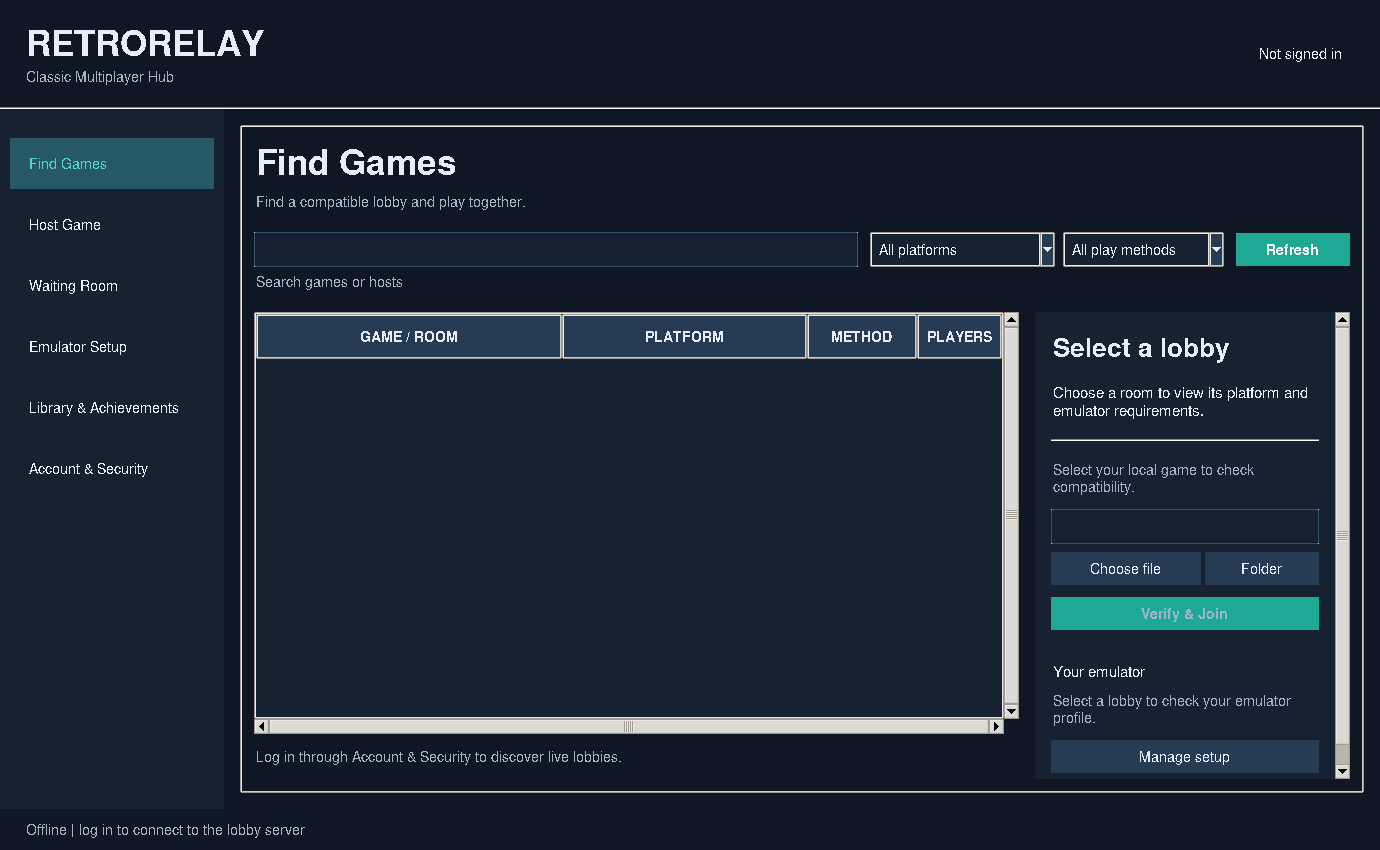
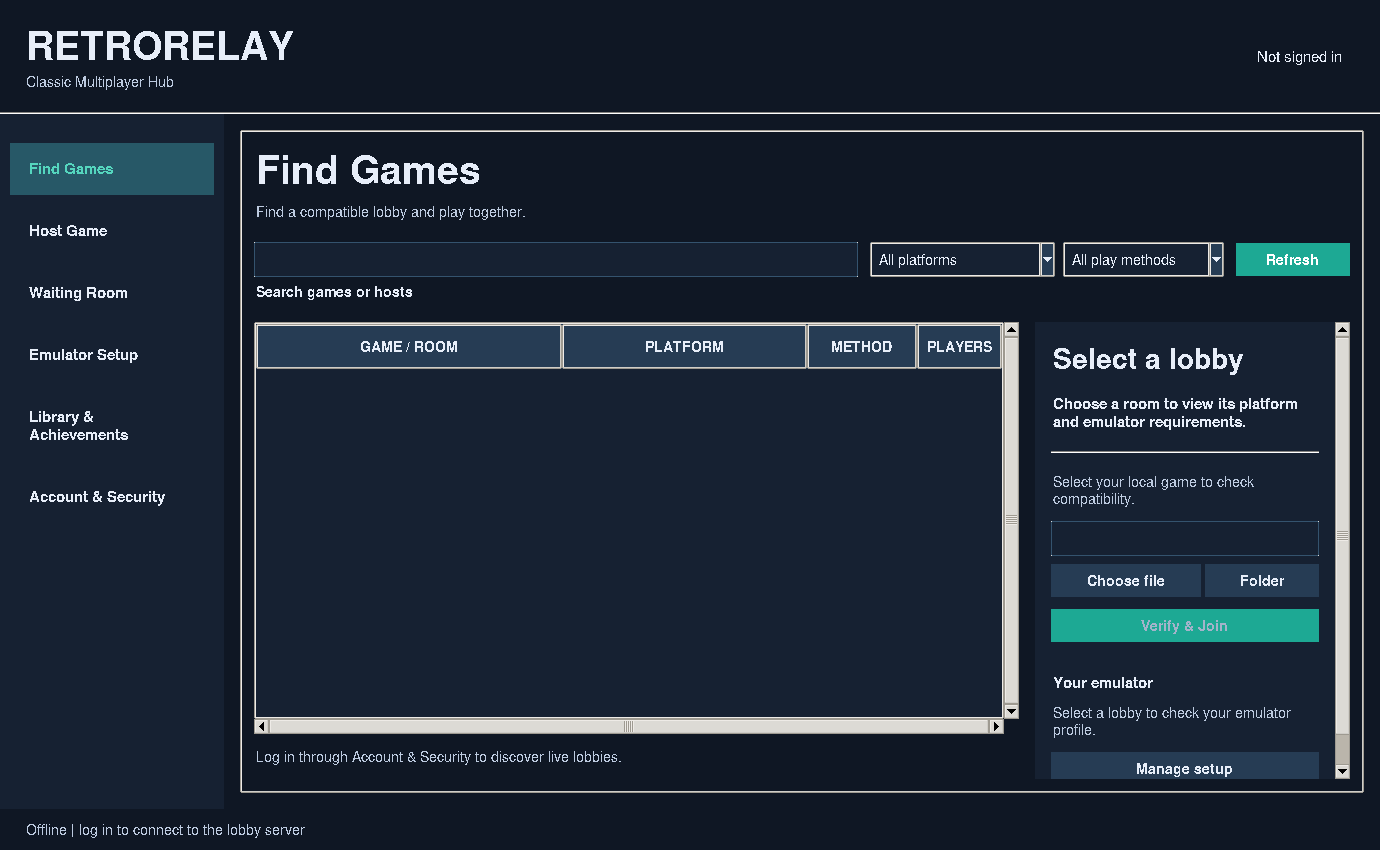
Improve desktop typography with bold labels and clearer font hierarchy

diff --git a/client.py b/client.py
@@ -20,7 +20,7 @@ import urllib.request
 import webbrowser
 from urllib.parse import urlsplit
 from pathlib import Path
-from tkinter import filedialog, messagebox, ttk
+from tkinter import filedialog, messagebox, ttk, font as tkfont
 
 from catalog import MODES, PLATFORMS, compatible_mode
 
@@ -185,18 +185,21 @@ class RetroRelayApp(tk.Tk):
         self.after(5000, self.poll)
 
     def setup_style(self):
+        families = set(tkfont.families(self))
+        self.ui_font = next((name for name in ("Segoe UI", "Noto Sans", "Noto Sans Display", "DejaVu Sans", "Arial")
+                             if name in families), "Arial")
         style = ttk.Style(self)
         style.theme_use("clam")
         style.configure("TFrame", background=BG)
         style.configure("Panel.TFrame", background=PANEL)
-        style.configure("TLabel", background=BG, foreground=FG, font=("Arial", 10))
-        style.configure("Header.TLabel", background=BG, foreground=FG, font=("Arial", 18, "bold"))
-        style.configure("Small.TLabel", background=BG, foreground=SUBTLE, font=("Arial", 10))
-        style.configure("TButton", font=("Arial", 10), padding=(12, 7), background="#263c54",
+        style.configure("TLabel", background=BG, foreground=FG, font=(self.ui_font, 11))
+        style.configure("Header.TLabel", background=BG, foreground=FG, font=(self.ui_font, 21, "bold"))
+        style.configure("Small.TLabel", background=BG, foreground="#bdcbe0", font=(self.ui_font, 10))
+        style.configure("TButton", font=(self.ui_font, 10, "bold"), padding=(12, 7), background="#263c54",
                         foreground=FG, borderwidth=0, relief="flat", bordercolor="#263c54",
                         lightcolor="#263c54", darkcolor="#263c54")
         style.map("TButton", background=[("active", "#34536e")], foreground=[("disabled", SUBTLE)])
-        style.configure("Accent.TButton", background="#1da994", foreground="#ffffff", font=("Arial", 10, "bold"))
+        style.configure("Accent.TButton", background="#1da994", foreground="#ffffff", font=(self.ui_font, 10, "bold"))
         style.map("Accent.TButton", background=[("active", "#188777")])
         style.configure("TEntry", padding=7, fieldbackground=PANEL, foreground=FG,
                         insertcolor=FG, bordercolor="#34536e", lightcolor=PANEL, darkcolor=PANEL)
@@ -208,24 +211,28 @@ class RetroRelayApp(tk.Tk):
         style.configure("TNotebook.Tab", padding=(20, 11), background=PANEL, foreground=FG)
         style.map("TNotebook.Tab", background=[("selected", "#28415a")], foreground=[("selected", "white")])
         style.configure("Treeview", background=PANEL, fieldbackground=PANEL, foreground=FG, rowheight=31, borderwidth=0)
-        style.configure("Treeview.Heading", background="#263c54", foreground=FG, font=("Arial", 10, "bold"))
+        style.configure("Treeview.Heading", background="#263c54", foreground=FG, font=(self.ui_font, 10, "bold"))
         style.map("Treeview", background=[("selected", "#275867")], foreground=[("selected", "white")])
         style.configure("TSpinbox", padding=5)
         style.layout("Sidebar.TNotebook.Tab", [])
         style.configure("Sidebar.TNotebook", background=BG, borderwidth=0)
         style.layout("Sidebar.TNotebook", [("Notebook.client", {"sticky": "nswe"})])
-        style.configure("Nav.TButton", anchor="w", padding=(18, 16), background=PANEL, foreground=FG)
+        style.configure("Nav.TButton", font=(self.ui_font, 11, "bold"), anchor="w", padding=(18, 16), background=PANEL, foreground=FG)
         style.map("Nav.TButton", background=[("pressed", "#275867"), ("active", "#263c54")])
-        style.configure("Selected.Nav.TButton", anchor="w", padding=(18, 16), background="#275867", foreground=ACCENT)
-        style.configure("Title.TLabel", background=BG, foreground=FG, font=("Arial", 25, "bold"))
-        style.configure("Card.TLabel", background=PANEL, foreground=FG, font=("Arial", 11))
-        style.configure("CardTitle.TLabel", background=PANEL, foreground=FG, font=("Arial", 19, "bold"))
-        style.configure("CardMuted.TLabel", background=PANEL, foreground=SUBTLE, font=("Arial", 10))
-        style.configure("Treeview", rowheight=68, font=("Arial", 11))
-        style.configure("Treeview.Heading", padding=(8, 12))
+        style.configure("Selected.Nav.TButton", font=(self.ui_font, 11, "bold"), anchor="w", padding=(18, 16), background="#275867", foreground=ACCENT)
+        style.configure("Title.TLabel", background=BG, foreground=FG, font=(self.ui_font, 28, "bold"))
+        style.configure("Card.TLabel", background=PANEL, foreground=FG, font=(self.ui_font, 11, "bold"))
+        style.configure("CardTitle.TLabel", background=PANEL, foreground=FG, font=(self.ui_font, 20, "bold"))
+        style.configure("CardMuted.TLabel", background=PANEL, foreground="#bdcbe0", font=(self.ui_font, 10))
+        style.configure("Treeview", rowheight=68, font=(self.ui_font, 11, "bold"))
+        style.configure("Treeview.Heading", padding=(8, 12), font=(self.ui_font, 10, "bold"))
+        style.configure("Field.TLabel", background=BG, foreground=FG, font=(self.ui_font, 10, "bold"))
+        style.configure("TEntry", font=(self.ui_font, 11))
+        style.configure("TCombobox", font=(self.ui_font, 10))
+        self.option_add("*TCombobox*Listbox.font", (self.ui_font, 10))
 
     def label(self, parent, text, r, c=0, sticky="w", width=None):
-        lbl = ttk.Label(parent, text=text)
+        lbl = ttk.Label(parent, text=text, style="Field.TLabel")
         lbl.grid(row=r, column=c, sticky=sticky, padx=7, pady=7)
         return lbl
 
@@ -267,7 +274,7 @@ class RetroRelayApp(tk.Tk):
         for name, page in [
             ("Find Games", self.discover_tab), ("Host Game", self.host_tab),
             ("Waiting Room", self.room_tab), ("Emulator Setup", self.setup_tab),
-            ("Library & Achievements", self.library_tab), ("Account & Security", self.account_tab),
+            ("Library &\nAchievements", self.library_tab), ("Account & Security", self.account_tab),
         ]:
             self.notebook.add(page, text=name)
             button = ttk.Button(sidebar, text=name, style="Nav.TButton",
@@ -441,7 +448,7 @@ class RetroRelayApp(tk.Tk):
         search = ttk.Entry(toolbar, textvariable=self.search_var, width=20)
         search.grid(row=0, column=0, sticky="ew", padx=(0, 8))
         # Visible label remains available to keyboard and screen-reader users.
-        ttk.Label(toolbar, text="Search games or hosts", style="Small.TLabel").grid(row=1, column=0, sticky="w", pady=4)
+        ttk.Label(toolbar, text="Search games or hosts", style="Field.TLabel").grid(row=1, column=0, sticky="w", pady=4)
         ttk.Combobox(toolbar, textvariable=self.platform_filter, values=["All platforms", *PLATFORMS],
                      state="readonly", width=19).grid(row=0, column=1, padx=4)
         ttk.Combobox(toolbar, textvariable=self.mode_filter, values=["All play methods", *MODES],
@@ -552,7 +559,7 @@ class RetroRelayApp(tk.Tk):
         self.entry(hint, self.connection_edit, 0)
         ttk.Button(hint, text="Host: update", command=self.update_connection).grid(row=0,column=2,padx=5)
         self.chat_view = tk.Text(t, height=14, bg=PANEL, fg=FG, insertbackground=FG,
-                                 highlightthickness=0, wrap="word", font=("Arial", 10))
+                                 highlightthickness=0, wrap="word", font=(self.ui_font, 11))
         self.chat_view.pack(fill="both", expand=True)
         self.chat_view.configure(state="disabled")
         chat_row = ttk.Frame(t)
